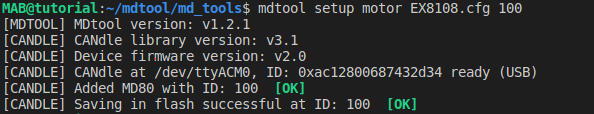
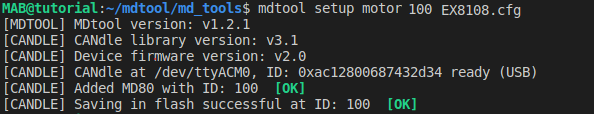
fix: fixed mdtool setup motor command

Changed region(s): [[0.6667, 0.0263, 0.8788, 0.1579]]

diff --git a/Ecosystem.md b/Ecosystem.md
@@ -91,6 +91,7 @@ Here are some things to look out for while playing with the MD80 x CANdle ecosys
 
 Please see the quick startup guide on our YouTube channel: [MD80 x CANdle - Getting Started Tutorial](https://www.youtube.com/watch?v=bIZuhFpFtus&t=1s)
 
+(configuring_MD80_for_new_motor)=
 ## Configuring the MD80 controller for a new motor
 
 ```{hint}
@@ -202,7 +203,7 @@ Feel free to add a new *.cfg file for your custom motors in there. Use the alrea
 :class: no-scaled-link
 ```
 
-* To setup the MD80 controller simply call [`mdtool setup motor <*.cfg> <ID>`](mdtool_setup_motor) where the ID is the ID that shows up after the [`mdtool ping`](mdtool_ping) command is called, and the *.cfg is one of the files existing in the mdtool_motors directory (press tab to list available config files). If anything fails during the process be sure to check your setup and try again. 
+* To setup the MD80 controller simply call [`mdtool setup motor <ID> <*.cfg>`](mdtool_setup_motor) where the ID is the ID that shows up after the [`mdtool ping`](mdtool_ping) command is called, and the *.cfg is one of the files existing in the mdtool_motors directory (press tab to list available config files). If anything fails during the process be sure to check your setup and try again. 
 
 ```{figure} images/mdtool_setup_motor_EX.png
 :alt: candle

diff --git a/Software.md b/Software.md
@@ -173,9 +173,9 @@ This command runs the basic calibration routine. During calibration, the drive h
 This command runs the output encoder calibration routine. During output encoder calibration, the drive has to be able to rotate for at least two full rotations of the output shaft and the power supply should be able to deliver at least 1A of current. For more detail on the calibration process please refer to the [output encoder calibration](output_encoder_calibration) section.
 
 (mdtool_setup_motor)=
-#### `mdtool setup motor <*.cfg> <ID>` 
+#### `mdtool setup motor <ID> <*.cfg>` 
 
-This command is used to write a new motor config. For more information please see the section Configuring MD80 controller for a new motor.
+This command is used to write a new motor config. For more information please see the section [configuring MD80 controller for a new motor](configuring_MD80_for_new_motor).
 
 (mdtool_setup_info)=
 #### `mdtool setup info <ID>`
